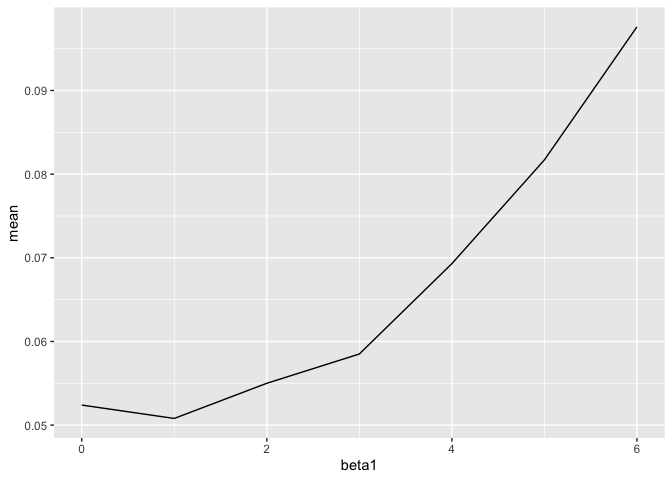
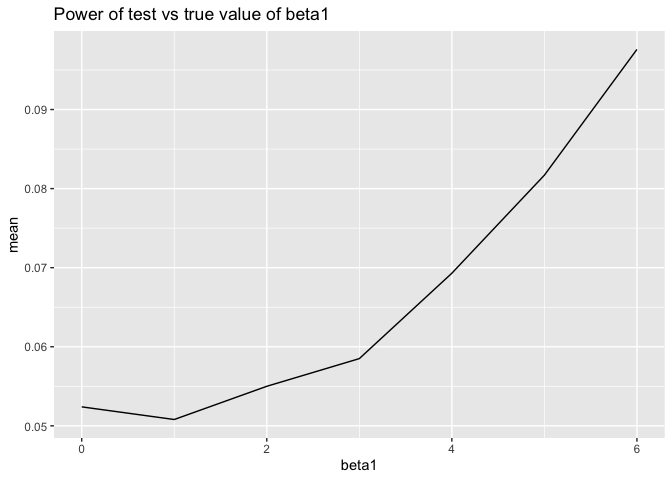
Final commit: knitted everything

diff --git a/p8105_hw5_ay2452.md b/p8105_hw5_ay2452.md
@@ -339,7 +339,8 @@ sim_results %>%
     mean = mean(p.value < 0.05)
   ) %>%
 ggplot(aes(x = beta1, y = mean)) + 
-geom_line()
+geom_line() +
+  labs(title = "Power of test vs true value of beta1")
 ```
 
 ![](p8105_hw5_ay2452_files/figure-gfm/Problem%203.2-1.png)<!-- -->
@@ -355,7 +356,8 @@ sim_results %>%
     mean = mean(estimate)
   ) %>%
 ggplot(aes(x = beta1, y = mean)) + 
-geom_line()  
+geom_line() + 
+  labs(title = "Average estimate of beta1 vs true value of beta1")
 ```
 
 ![](p8105_hw5_ay2452_files/figure-gfm/Problem%203.3-1.png)<!-- -->
@@ -368,7 +370,8 @@ sim_results %>%
     mean = mean(estimate)
   ) %>% 
 ggplot(aes(x = beta1, y = mean)) +
-  geom_line()
+  geom_line() +
+  labs(title = "Average estimate of beta1  for samples where null was rejected vs true value of beta1")
 ```
 
 ![](p8105_hw5_ay2452_files/figure-gfm/Problem%203.4-1.png)<!-- -->
